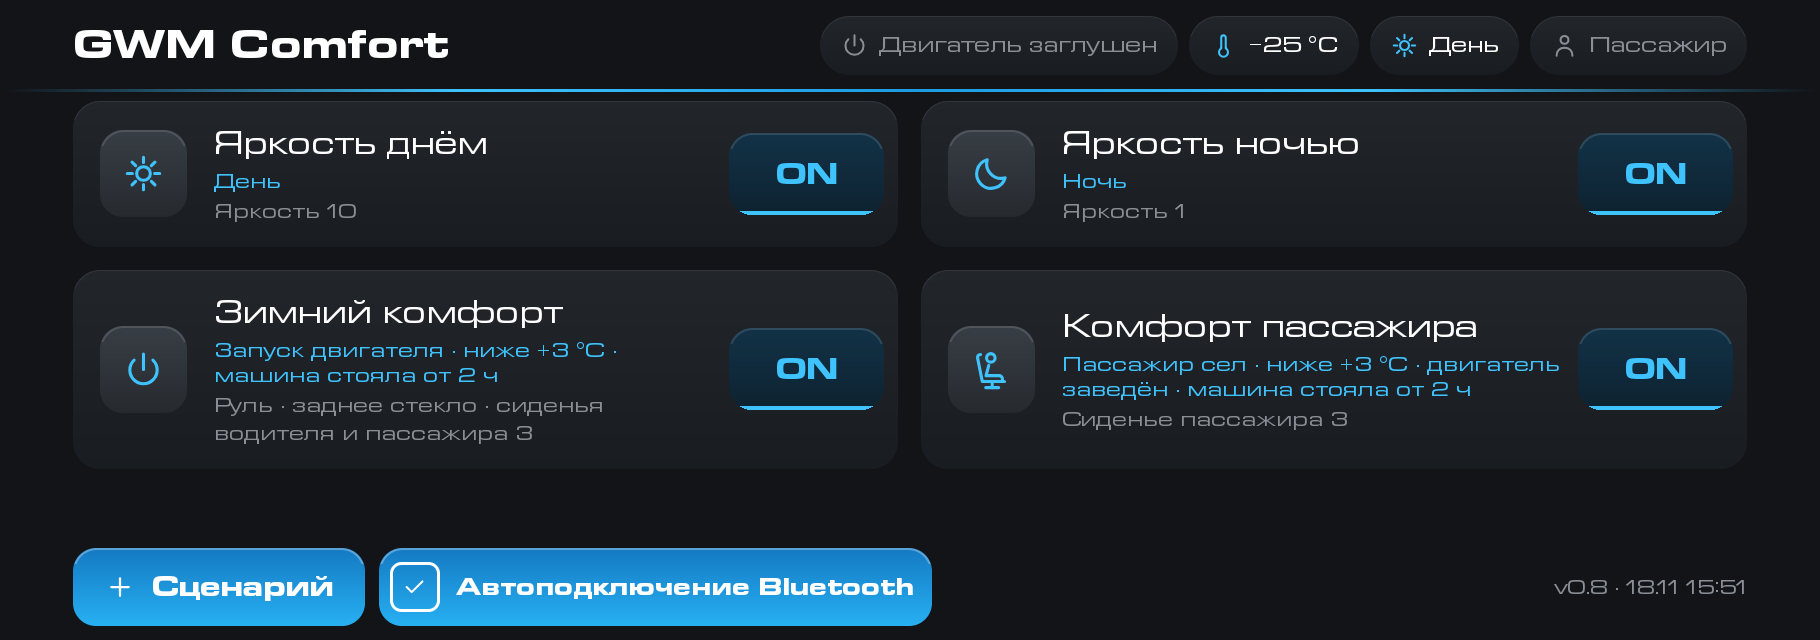
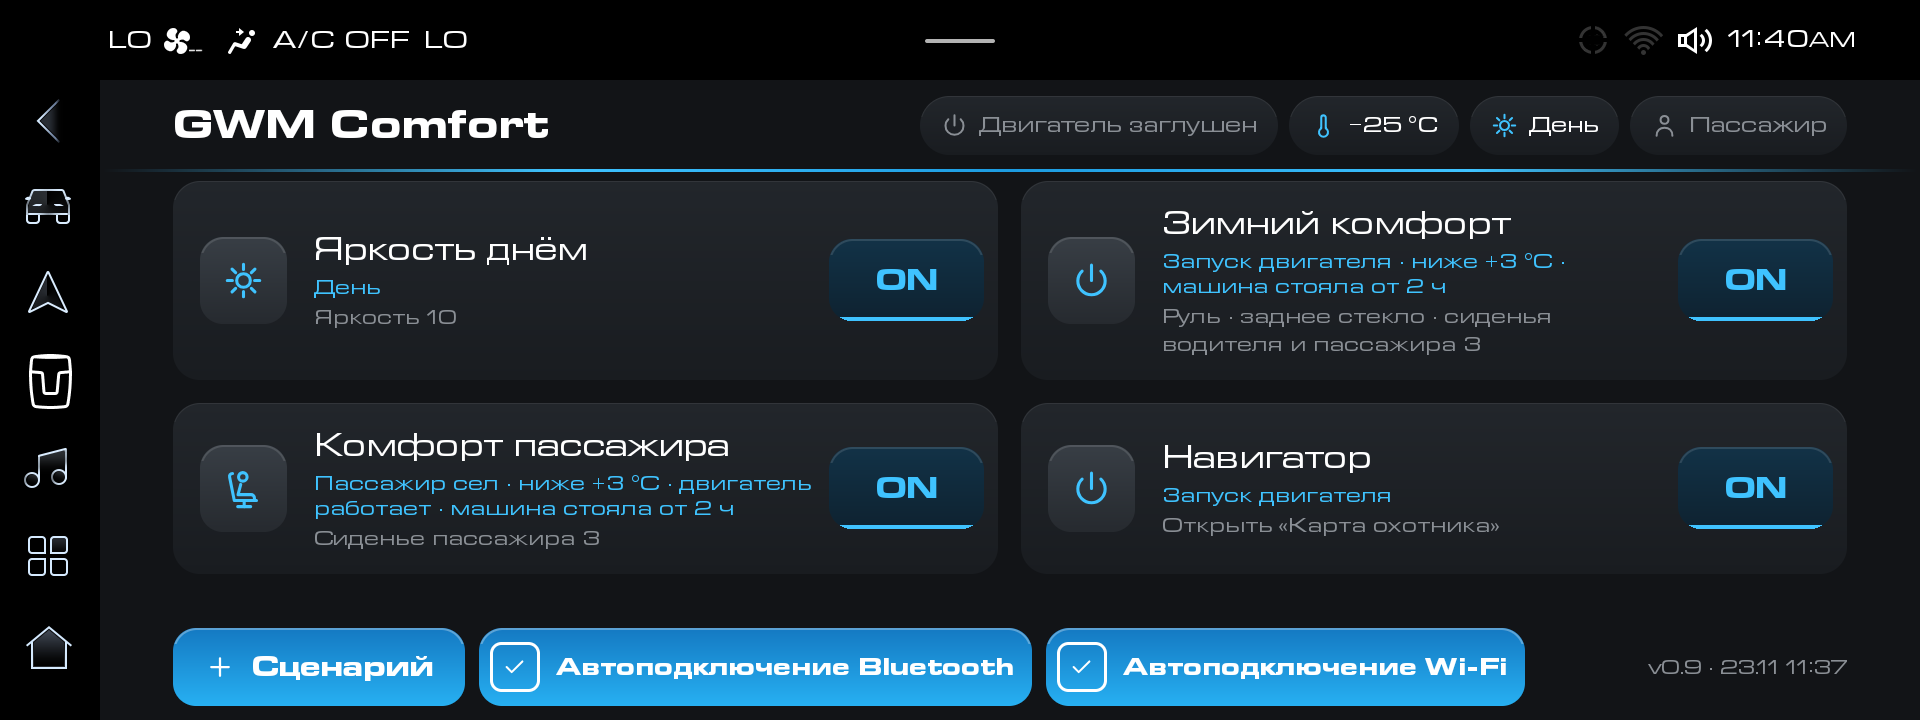
Витрина: GWM Comfort 0.9

diff --git a/README.md b/README.md
@@ -9,7 +9,7 @@
 |---|---|---|
 | [Яркость день/ночь](dimmer/README.md) | <!-- v:dimmer --> [3.6](https://github.com/theKomix/gwm-apps/releases/tag/dimmer-v3.6) <!-- /v --> | Отдельная яркость экранов днём и ночью, переключается по автосвету |
 | [TBOX: только Wi-Fi](tboxrules/README.md) | <!-- v:tboxrules --> [0.1.0](https://github.com/theKomix/gwm-apps/releases/tag/tboxrules-v0.1.0) <!-- /v --> | Интернет для приложений на ГУ — только через Wi-Fi, трафик сим-карты TBOX не тратится |
-| [GWM Comfort](comfort/README.md) | <!-- v:comfort --> [0.8.1](https://github.com/theKomix/gwm-apps/releases/tag/comfort-v0.8.1) <!-- /v --> | Сценарии комфорта: по запуску двигателя, дню и ночи, включению ГУ, пассажиру включает подогрев, вентиляцию, обогрев, меняет яркость и источник звука |
+| [GWM Comfort](comfort/README.md) | <!-- v:comfort --> [0.9](https://github.com/theKomix/gwm-apps/releases/tag/comfort-v0.9) <!-- /v --> | Сценарии комфорта: по запуску двигателя, дню и ночи, включению ГУ, пассажиру включает подогрев, вентиляцию, обогрев, меняет яркость и источник звука |
 | [GWM Install](gwm-install/README.md) | <!-- v:gwm-install --> [0.3.2](https://github.com/theKomix/gwm-apps/releases/tag/gwm-install-v0.3.2) <!-- /v --> | Ставит APK на ГУ с телефона по Wi-Fi, в том числе на штатных прошивках: кабель нужен один раз, для самого менеджера |
 | [Внедорожье](offroad/README.md) | <!-- v:offroad --> [0.1.4](https://github.com/theKomix/gwm-apps/releases/tag/offroad-v0.1.4) <!-- /v --> | Виджет для прошивки GWM-club: кнопки автовключения парктроника и камеры по повороту, данные шин и режимы движения |
 | [Внедорожье Lite](offroad-lite/README.md) | <!-- v:offroad-lite --> [0.1.4](https://github.com/theKomix/gwm-apps/releases/tag/offroad-lite-v0.1.4) <!-- /v --> | Те же две кнопки, компас, тангаж и крен в отдельном окне, для штатной прошивки |
